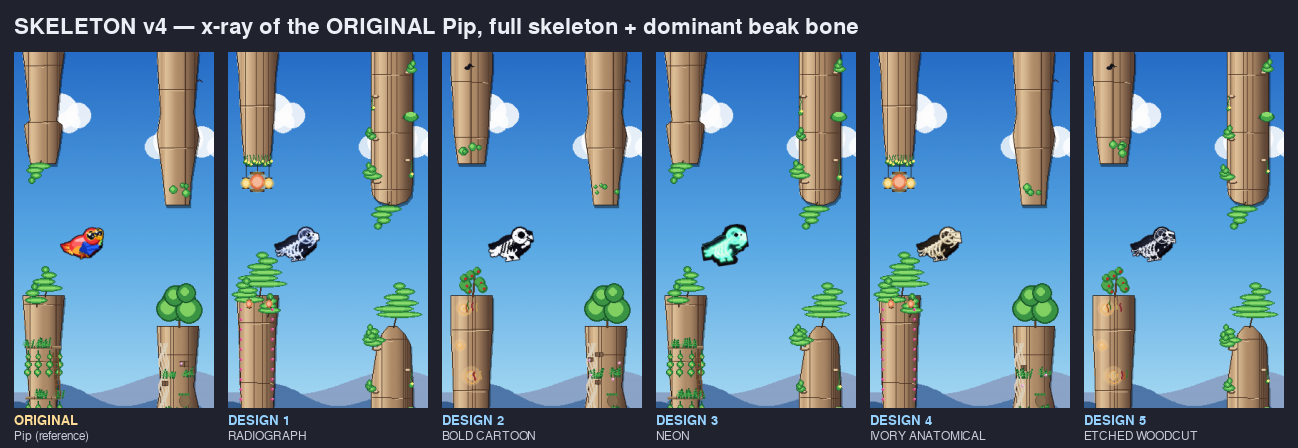
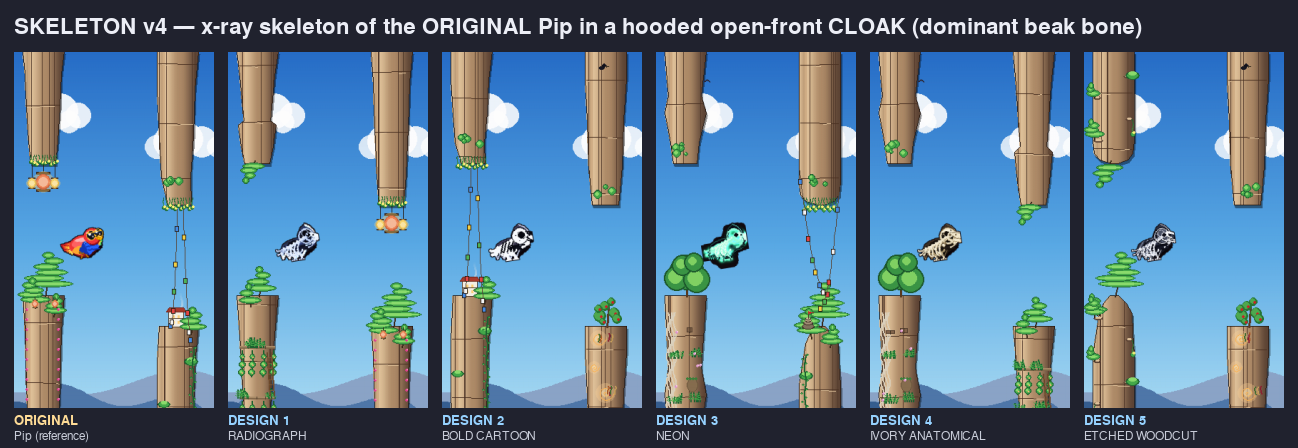
Skeleton v4 cloak pass: regenerate comparison (5 cloaked x-ray designs)

diff --git a/tools/render_skeleton_v4_compare.py b/tools/render_skeleton_v4_compare.py
@@ -47,7 +47,7 @@ def main():
     out = pygame.Surface((cols_w, TOP + PANEL_H + BOT))
     out.fill(BG)
     title = _font(22, bold=True).render(
-        "SKELETON v4 — x-ray of the ORIGINAL Pip, full skeleton + dominant beak bone",
+        "SKELETON v4 — x-ray skeleton of the ORIGINAL Pip in a hooded open-front CLOAK (dominant beak bone)",
         True, (236, 238, 246))
     out.blit(title, (PAD, 16))
 
